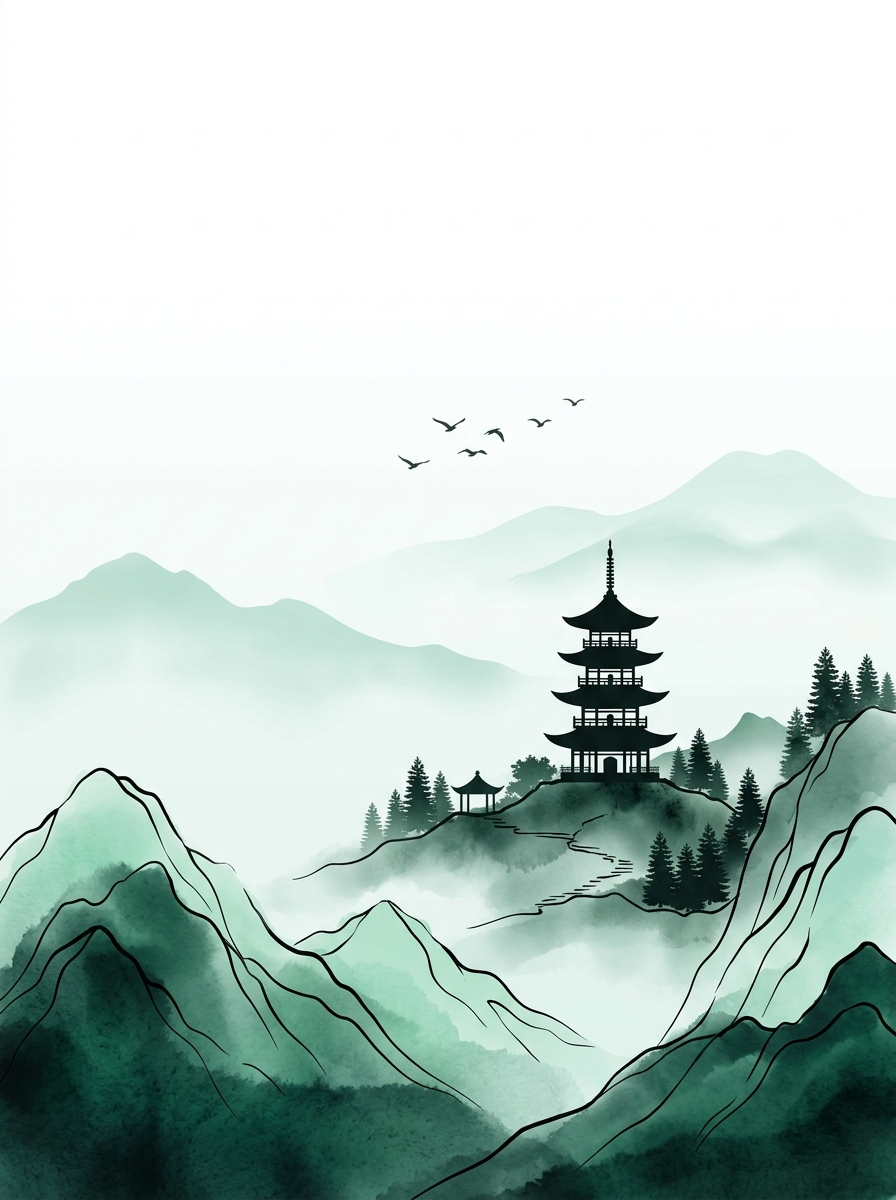
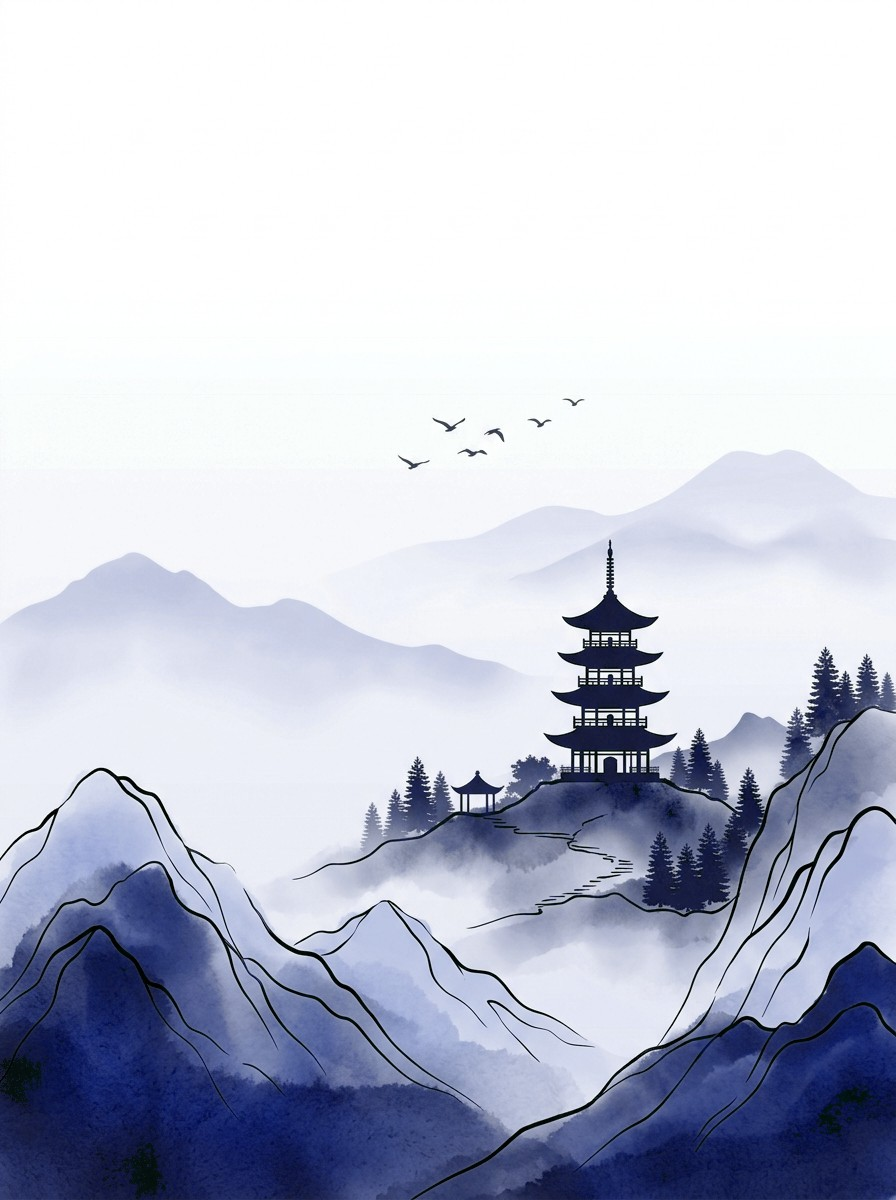
style: sidebars use page background; selected item filled with blue; recolor sidebar artwork

Changed region(s): [[0.0, 0.4933, 1.0, 1.0]]

diff --git a/frontend/src/pages/dashboard/StudentDashboard.jsx b/frontend/src/pages/dashboard/StudentDashboard.jsx
@@ -236,7 +236,7 @@ export default function StudentDashboard() {
 
       <div className="flex flex-1 overflow-hidden">
         {sidebarOpen && (
-          <aside className="w-72 bg-gradient-to-b from-[#1A5BC4] to-[#143F8F] text-white border-r border-[#143F8F] flex flex-col shrink-0 select-none relative h-full overflow-hidden">
+          <aside className="w-72 bg-[#f7f8fa] text-slate-800 border-r border-[#E4EAF2] flex flex-col shrink-0 select-none relative h-full overflow-hidden">
             {/* Bottom Oriental Landscape Artwork Background Layer */}
             <SidebarFooterSupport />
 
@@ -250,18 +250,18 @@ export default function StudentDashboard() {
                     onClick={() => setActiveTab(item.key)}
                     className={`group w-full flex items-center justify-start text-left px-4 py-2.5 rounded-2xl font-bold text-[15.5px] tracking-tight transition-all cursor-pointer select-none ${
                       isActive
-                        ? 'bg-white text-[#1467E8] shadow-sm ring-1 ring-[#B0D0FB]'
-                        : 'text-white/90 hover:bg-white/15 hover:text-white'
+                        ? 'bg-gradient-to-r from-[#1A5BC4] to-[#143F8F] text-white shadow-md'
+                        : 'text-[#172B4D] hover:bg-[#EAF3FF] hover:text-[#1467E8]'
                     }`}
                   >
                     {item.icon && (
-                      <span className={`material-symbols-outlined mr-3.5 text-[23px] transition-colors ${isActive ? 'text-[#1467E8]' : 'text-white/75 group-hover:text-white'}`}>
+                      <span className={`material-symbols-outlined mr-3.5 text-[23px] transition-colors ${isActive ? 'text-white' : 'text-[#60708A] group-hover:text-[#1467E8]'}`}>
                         {item.icon}
                       </span>
                     )}
                     <span className="flex-1 leading-snug font-bold">{item.label}</span>
                     {item.isNotif && unreadCount > 0 && (
-                      <span className={`text-[11px] font-black px-2 py-0.5 rounded-full ${isActive ? 'bg-[#1467E8] text-white' : 'bg-rose-500 text-white shadow-xs'}`}>
+                      <span className={`text-[11px] font-black px-2 py-0.5 rounded-full ${isActive ? 'bg-white text-[#1467E8]' : 'bg-rose-500 text-white shadow-xs'}`}>
                         {unreadCount > 99 ? '99+' : unreadCount}
                       </span>
                     )}

diff --git a/frontend/src/pages/dashboard/TeacherDashboard.jsx b/frontend/src/pages/dashboard/TeacherDashboard.jsx
@@ -586,7 +586,7 @@ export default function TeacherDashboard() {
 
       <div className="flex flex-1 overflow-hidden">
         {sidebarOpen && (
-          <aside className="w-72 bg-gradient-to-b from-[#1A5BC4] to-[#143F8F] text-white border-r border-[#143F8F] flex flex-col shrink-0 select-none relative h-full overflow-hidden">
+          <aside className="w-72 bg-[#f7f8fa] text-slate-800 border-r border-[#E4EAF2] flex flex-col shrink-0 select-none relative h-full overflow-hidden">
             {/* Bottom Oriental Landscape Artwork Background Layer */}
             <SidebarFooterSupport />
 
@@ -603,11 +603,11 @@ export default function TeacherDashboard() {
                     onClick={() => setActiveTab(item.key)}
                     className={`group w-full flex items-center justify-start text-left px-4 py-2.5 rounded-2xl font-bold text-[15.5px] tracking-tight transition-all cursor-pointer select-none ${
                       isActive
-                        ? 'bg-white text-[#1467E8] shadow-sm ring-1 ring-[#B0D0FB]'
-                        : 'text-white/90 hover:bg-white/15 hover:text-white'
+                        ? 'bg-gradient-to-r from-[#1A5BC4] to-[#143F8F] text-white shadow-md'
+                        : 'text-[#172B4D] hover:bg-[#EAF3FF] hover:text-[#1467E8]'
                     }`}
                   >
-                    <span className={`material-symbols-outlined mr-3.5 text-[23px] transition-colors ${isActive ? 'text-[#1467E8]' : 'text-white/75 group-hover:text-white'}`}>
+                    <span className={`material-symbols-outlined mr-3.5 text-[23px] transition-colors ${isActive ? 'text-white' : 'text-[#60708A] group-hover:text-[#1467E8]'}`}>
                       {item.icon}
                     </span>
                     <span className="flex-1 leading-snug font-bold">{item.label}</span>

diff --git a/frontend/src/components/Layout/AdminLayout.jsx b/frontend/src/components/Layout/AdminLayout.jsx
@@ -28,15 +28,15 @@ export default function AdminLayout({ activeTab, onTabClick, breadcrumb, childre
 
   const tabClassName = (isActive) =>
     `group w-full flex items-center justify-start text-left px-4 py-2.5 rounded-2xl font-bold text-[15.5px] tracking-tight transition-all cursor-pointer select-none ${isActive
-      ? 'bg-white text-[#1467E8] shadow-sm ring-1 ring-[#B0D0FB]'
-      : 'text-white/90 hover:bg-white/15 hover:text-white'
+      ? 'bg-gradient-to-r from-[#1A5BC4] to-[#143F8F] text-white shadow-md'
+      : 'text-[#172B4D] hover:bg-[#EAF3FF] hover:text-[#1467E8]'
     }`;
 
   const renderTab = (item) => {
     const isActive = activeTab === item.key;
     const content = (
       <>
-        <span className={`material-symbols-outlined mr-3.5 text-[23px] transition-colors ${isActive ? 'text-[#1467E8]' : 'text-white/75 group-hover:text-white'}`}>
+        <span className={`material-symbols-outlined mr-3.5 text-[23px] transition-colors ${isActive ? 'text-white' : 'text-[#60708A] group-hover:text-[#1467E8]'}`}>
           {item.icon}
         </span>
         <span className="flex-1 leading-snug font-bold">{item.label}</span>
@@ -162,7 +162,7 @@ export default function AdminLayout({ activeTab, onTabClick, breadcrumb, childre
       {/* Main Layout Container */}
       <div className="flex flex-1 overflow-hidden">
         {sidebarOpen && (
-          <aside className="w-72 bg-gradient-to-b from-[#1A5BC4] to-[#143F8F] text-white border-r border-[#143F8F] flex flex-col shrink-0 select-none relative h-full overflow-hidden">
+          <aside className="w-72 bg-[#f7f8fa] text-slate-800 border-r border-[#E4EAF2] flex flex-col shrink-0 select-none relative h-full overflow-hidden">
             {/* Bottom Oriental Landscape Artwork Background Layer */}
             <SidebarFooterSupport />
 

diff --git a/frontend/src/components/Layout/SidebarFooterSupport.jsx b/frontend/src/components/Layout/SidebarFooterSupport.jsx
@@ -6,11 +6,11 @@ export default function SidebarFooterSupport() {
     <div className="absolute inset-x-0 bottom-0 h-[360px] pointer-events-none select-none z-0 overflow-hidden">
       {/* High-Res Watercolor Pagoda & Misty Mountain Artwork */}
       <div
-        className="absolute inset-0 bg-cover bg-bottom opacity-20 mix-blend-luminosity"
+        className="absolute inset-0 bg-cover bg-bottom opacity-90"
         style={{ backgroundImage: `url(${pagodaBg || '/images/sidebar_pagoda_bg.jpg'})` }}
       />
-      {/* Soft feathered gradient at top into sidebar blue */}
-      <div className="absolute inset-x-0 top-0 h-32 bg-gradient-to-b from-[#18489F] via-[#18489F]/60 to-transparent" />
+      {/* Soft feathered gradient at top into page background */}
+      <div className="absolute inset-x-0 top-0 h-32 bg-gradient-to-b from-[#f7f8fa] via-[#f7f8fa]/70 to-transparent" />
     </div>
   );
 }

diff --git a/backend/src/utils/recolorImages.js b/backend/src/utils/recolorImages.js
@@ -10,7 +10,7 @@ const path = require('path');
 const { execSync } = require('child_process');
 
 const ROOT = path.join(__dirname, '../../..');
-const DIRS = [path.join(ROOT, 'frontend/public/images'), path.join(ROOT, 'backend/public/images')];
+const DIRS = [path.join(ROOT, 'frontend/public/images'), path.join(ROOT, 'backend/public/images'), path.join(ROOT, 'frontend/src/assets')];
 const MIN_GREEN = 0.08; // ảnh có ít hơn 8% pixel xanh lá thì không đụng vào
 
 function hslToRgb(h, s, l) {
